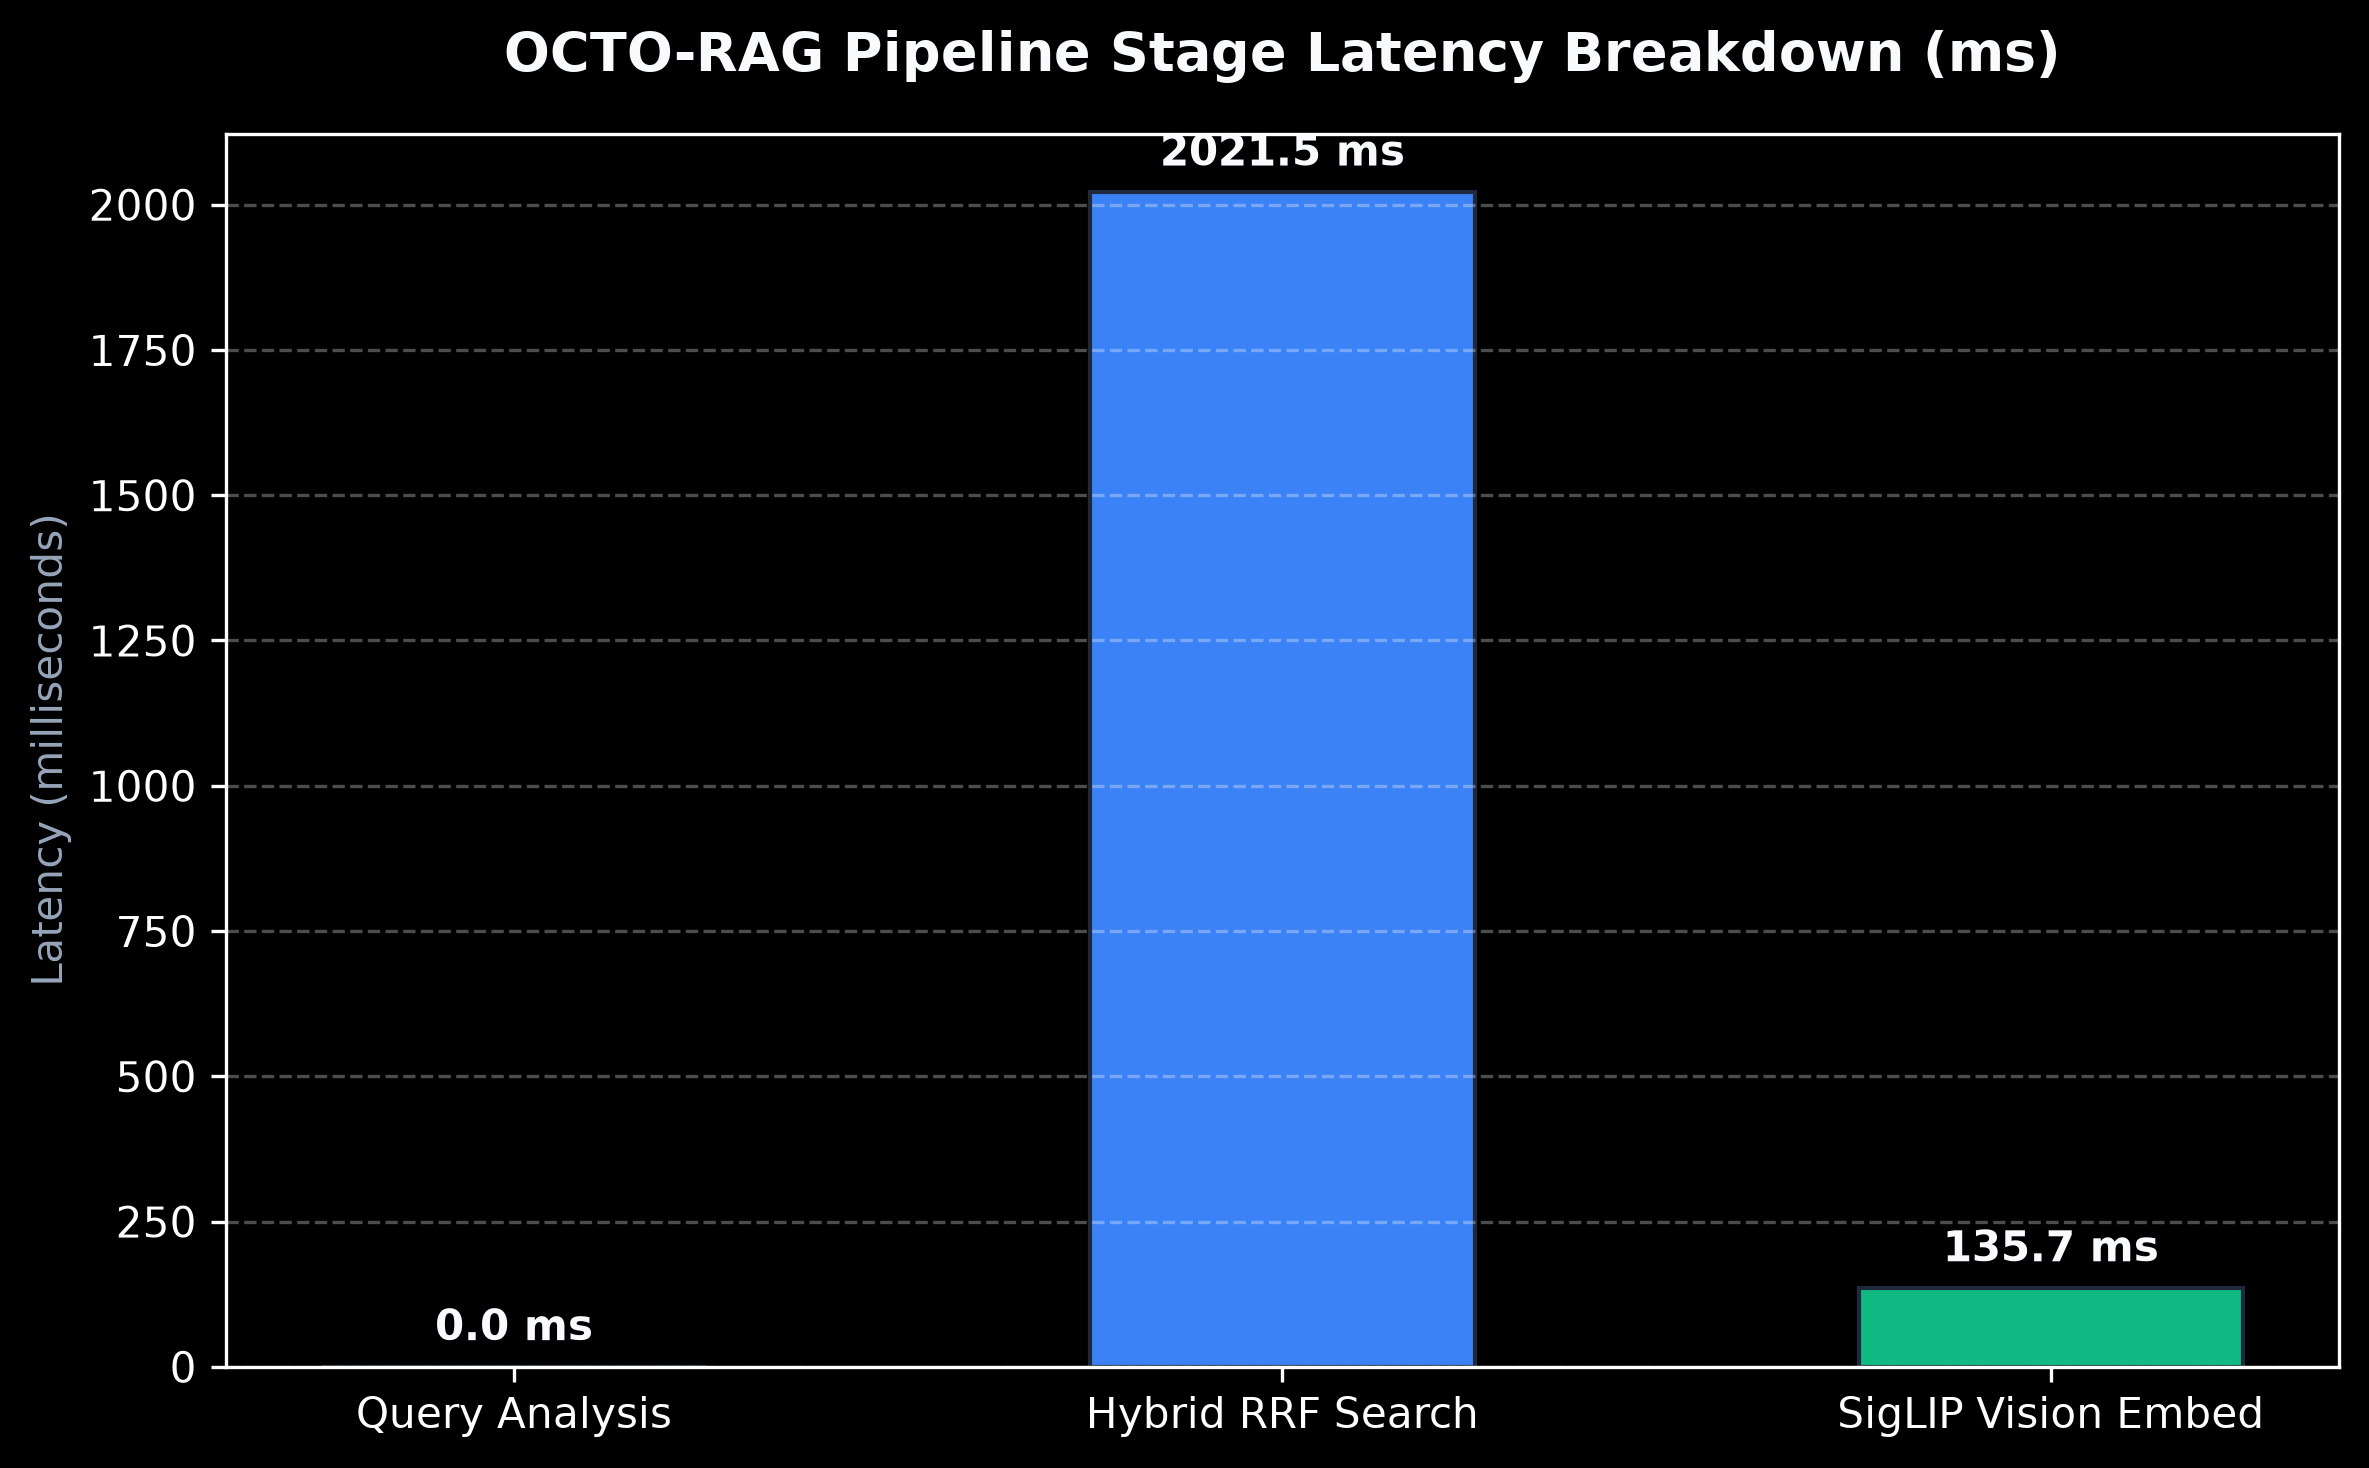
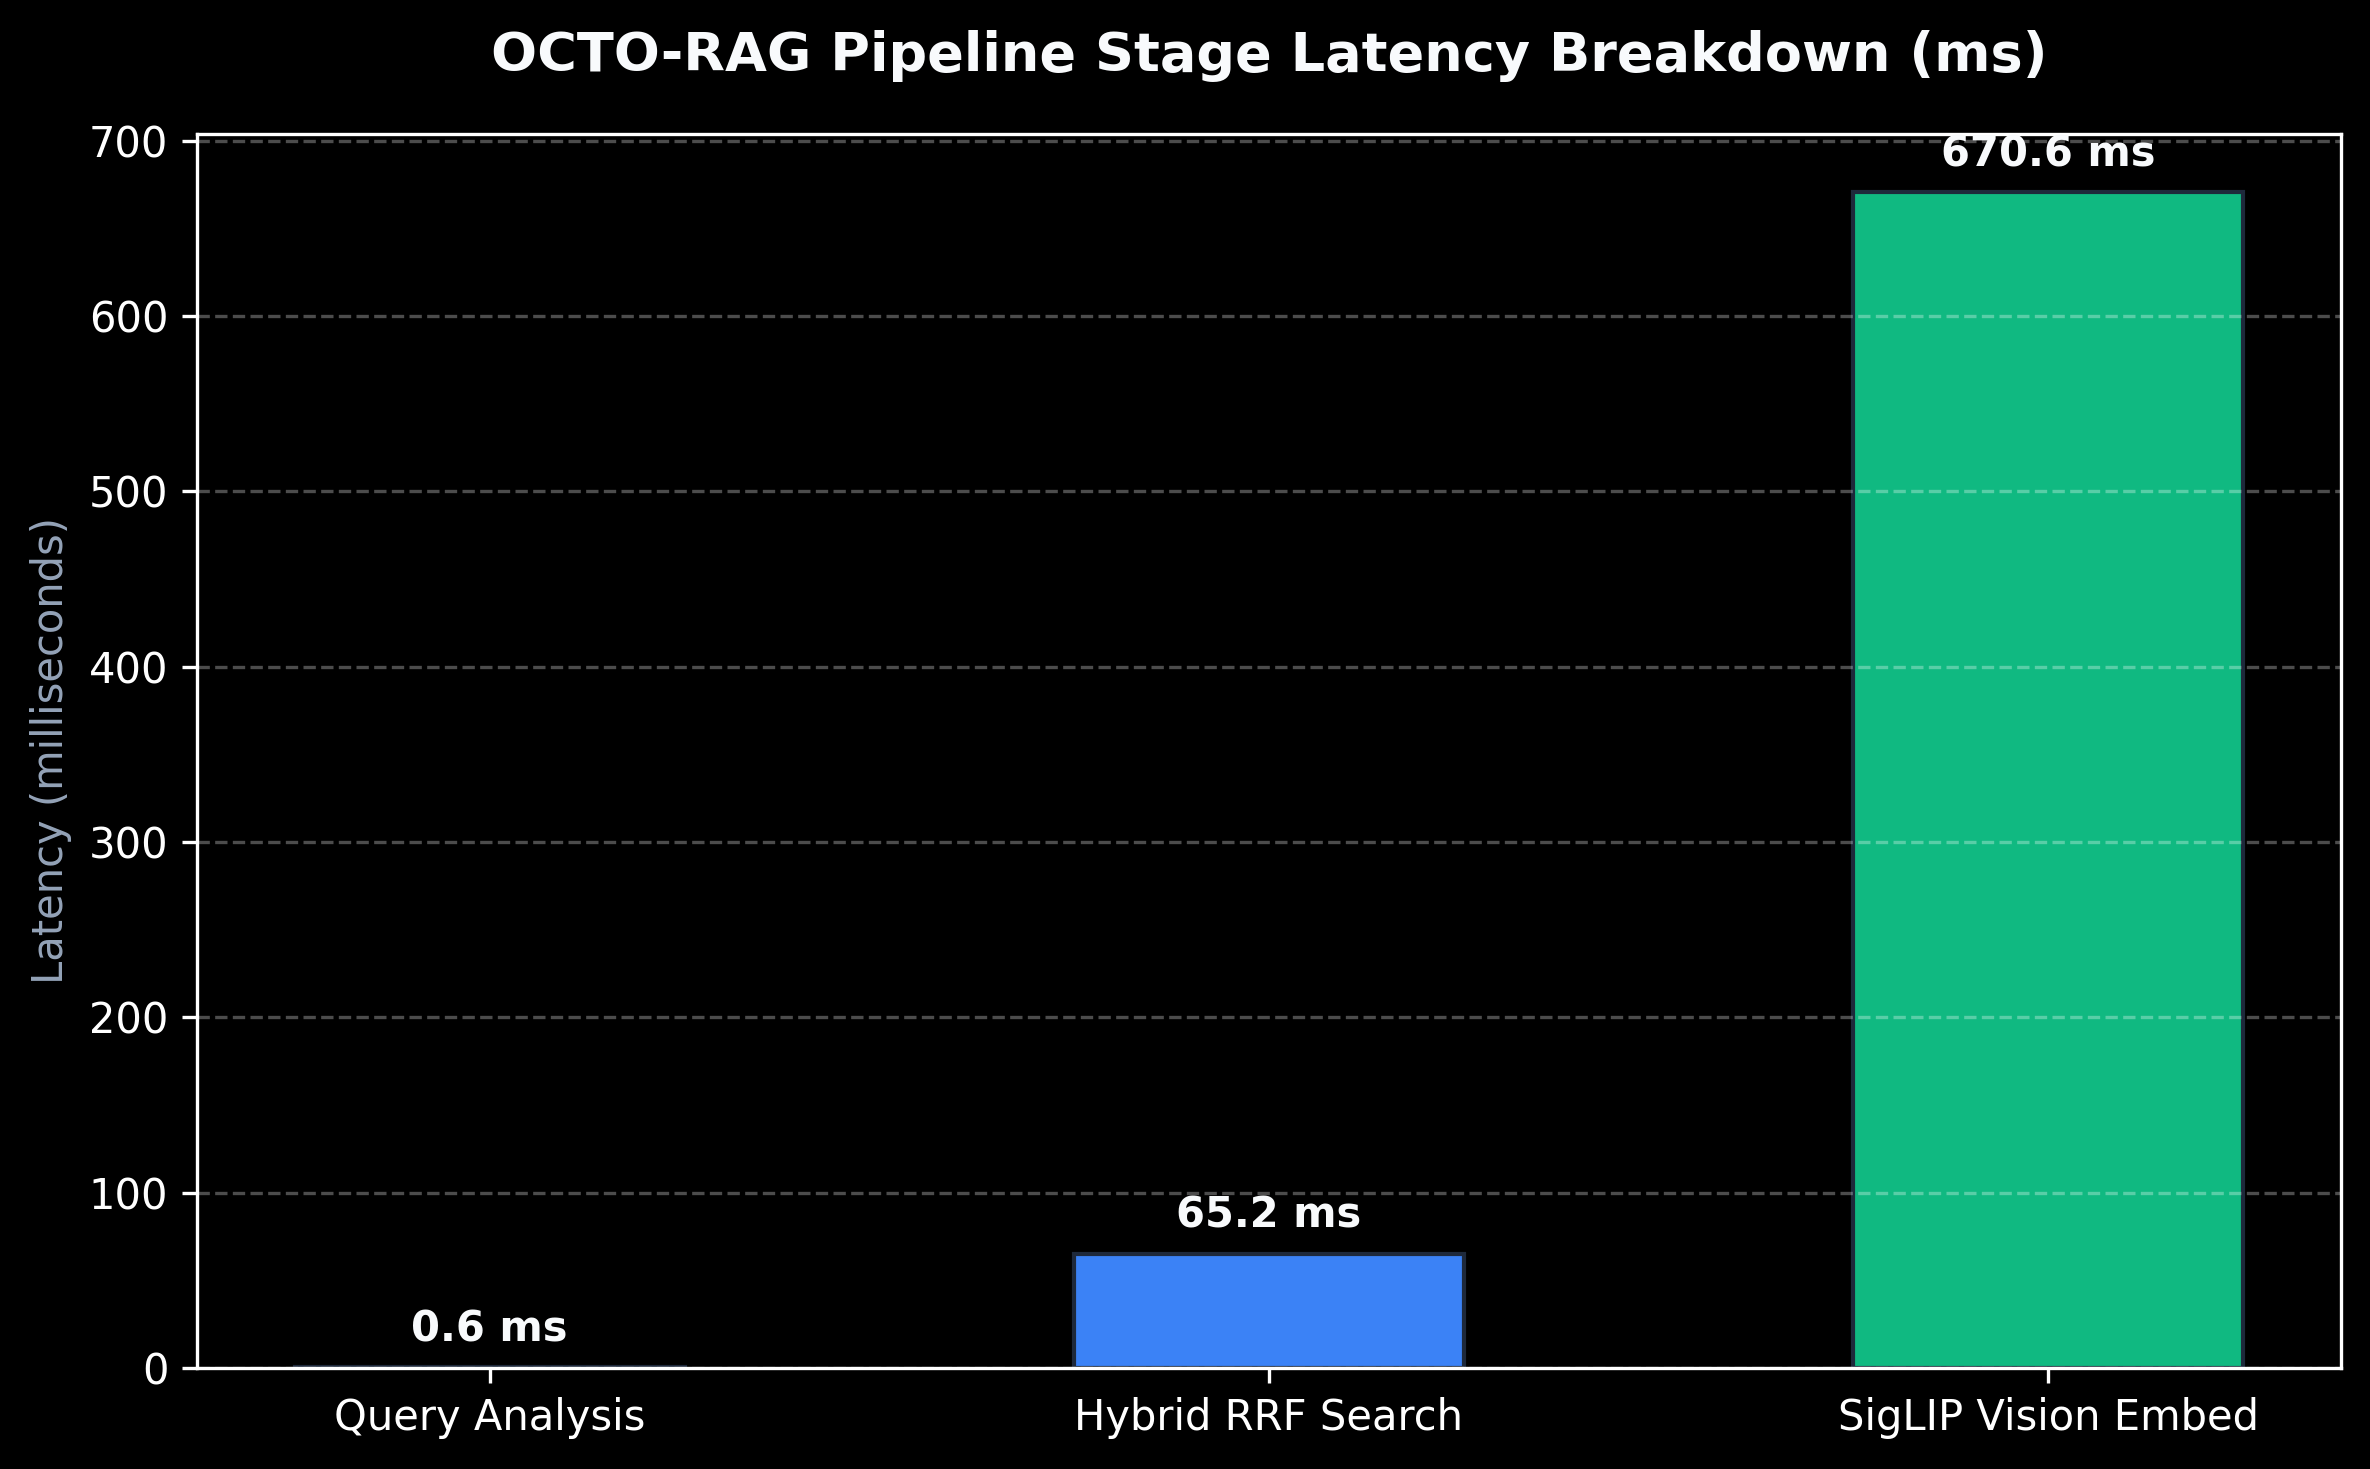
fixing evaals

diff --git a/backend/eval/eval_pipeline.py b/backend/eval/eval_pipeline.py
@@ -396,6 +396,8 @@ def profile_pipeline():
     # --------------------------------------------------------
 
     from app.services.query_understanding import understand_query
+    from app.services.prompt_guard import is_prompt_injection, is_out_of_domain
+    from app.services.product_identifier import identify_product_fallback
     from app.services.retriever import retrieve_context
     from app.services.vision_embedder import VisionEmbedderService
     from app.services.vector_store import VectorStoreService
@@ -829,15 +831,19 @@ def profile_pipeline():
         expected = test["expected_keywords"]
 
         # ----------------------------------------------------
-        # 1. Query Understanding
+        # 1. Query Understanding (Local Pre-Retrieval Pipeline)
         #
-        # We intentionally bypass the LLM here to avoid
-        # external API rate limits during pure retrieval
-        # benchmarking.
+        # Measures real local query analysis latency:
+        # prompt injection guard, domain boundary verification,
+        # normalization, and entity/product extraction without
+        # external cloud LLM rate-limit overhead.
         # ----------------------------------------------------
 
         t0 = time.perf_counter()
 
+        _ = is_prompt_injection(query)
+        _ = is_out_of_domain(query)
+        entities = identify_product_fallback(query)
         normalized_query = query.strip()
 
         t_qu = (
@@ -852,7 +858,7 @@ def profile_pipeline():
 
         chunks, confidence = retrieve_context(
             normalized_query,
-            query_entities={}
+            query_entities=entities
         )
 
         t_ret = (
